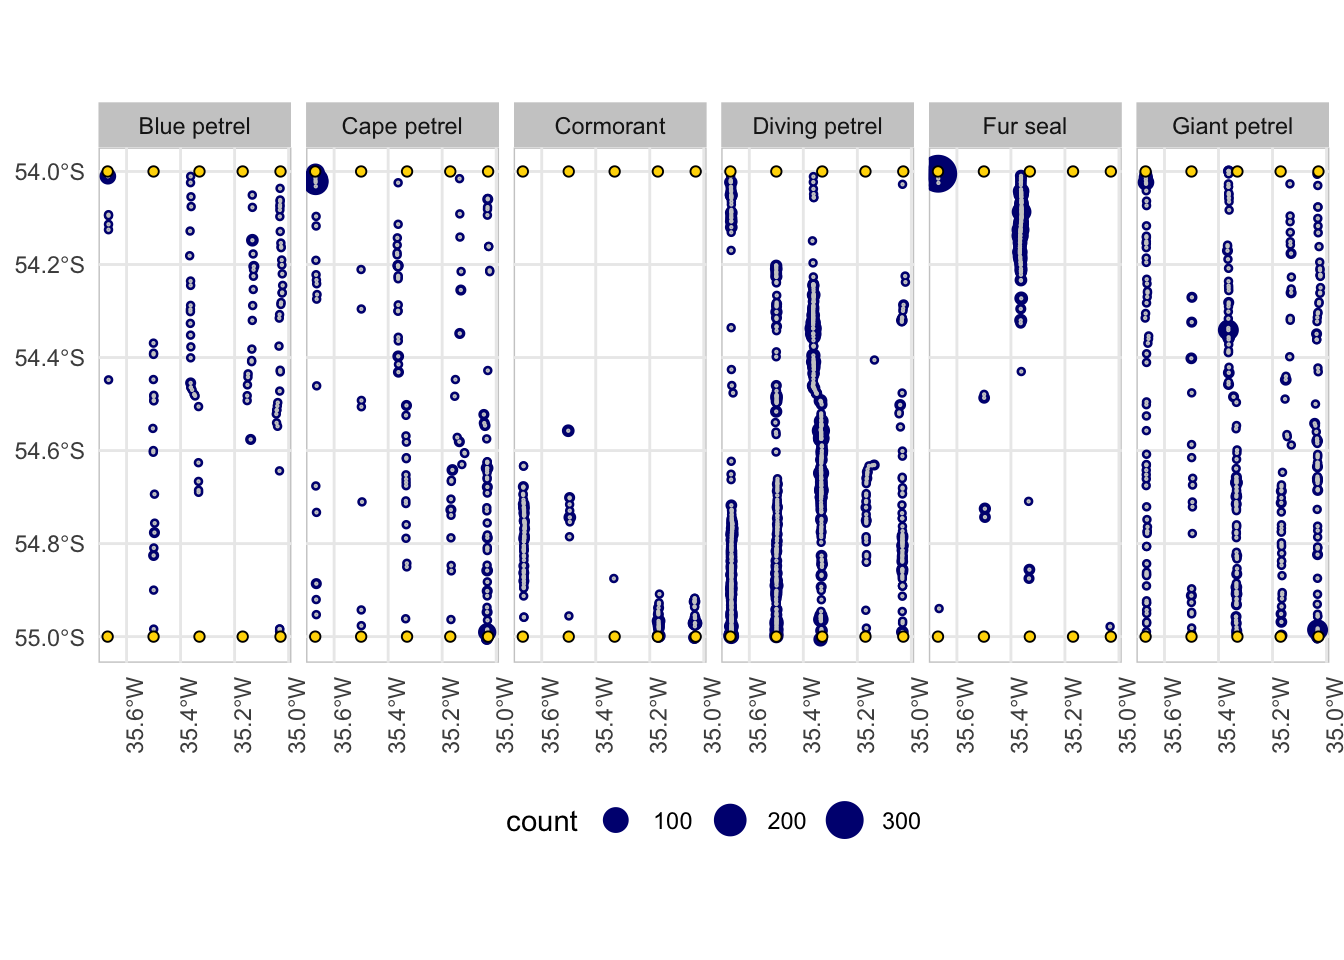
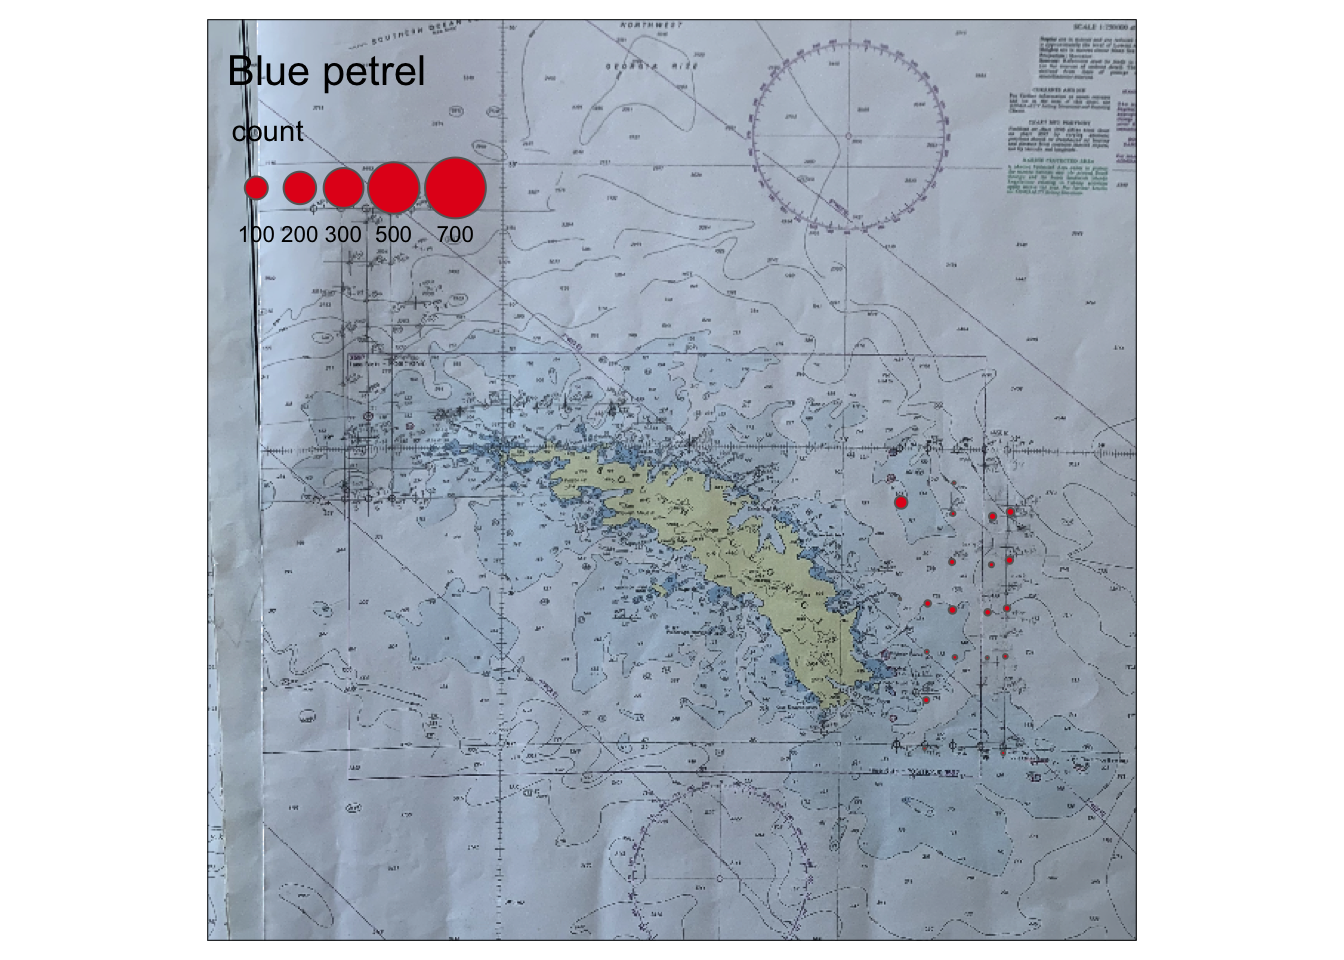
Add maps to daytime report

diff --git a/reports/Daytime.html b/reports/Daytime.html
@@ -71,10 +71,25 @@ ul.task-list li input[type="checkbox"] {
 </section>
 <section id="species-distributions" class="level2">
 <h2 class="anchored" data-anchor-id="species-distributions">Species distributions</h2>
-<p>Maps of the 6 most numerous taxa: diving petrels (CODP+UNDP), fur seals, giant petrels (NGPT+SGPT+UGPT), cape petrels, South Georgia cormorants, and blue petrels. Also excludes July 16.</p>
+<p>Maps of the 6 most numerous taxa: diving petrels (CODP+UNDP), fur seals, giant petrels (NGPT+SGPT+UGPT), cape petrels, South Georgia cormorants, and blue petrels. Also excludes July 16. Shown in 10 nm bins.</p>
 <div class="cell">
 <div class="cell-output-display">
 <p><img src="Daytime_files/figure-html/species_maps-1.png" class="img-fluid" style="width:100.0%"></p>
+</div>
+<div class="cell-output-display">
+<p><img src="Daytime_files/figure-html/species_maps-2.png" class="img-fluid" style="width:100.0%"></p>
+</div>
+<div class="cell-output-display">
+<p><img src="Daytime_files/figure-html/species_maps-3.png" class="img-fluid" style="width:100.0%"></p>
+</div>
+<div class="cell-output-display">
+<p><img src="Daytime_files/figure-html/species_maps-4.png" class="img-fluid" style="width:100.0%"></p>
+</div>
+<div class="cell-output-display">
+<p><img src="Daytime_files/figure-html/species_maps-5.png" class="img-fluid" style="width:100.0%"></p>
+</div>
+<div class="cell-output-display">
+<p><img src="Daytime_files/figure-html/species_maps-6.png" class="img-fluid" style="width:100.0%"></p>
 </div>
 </div>
 </section>
